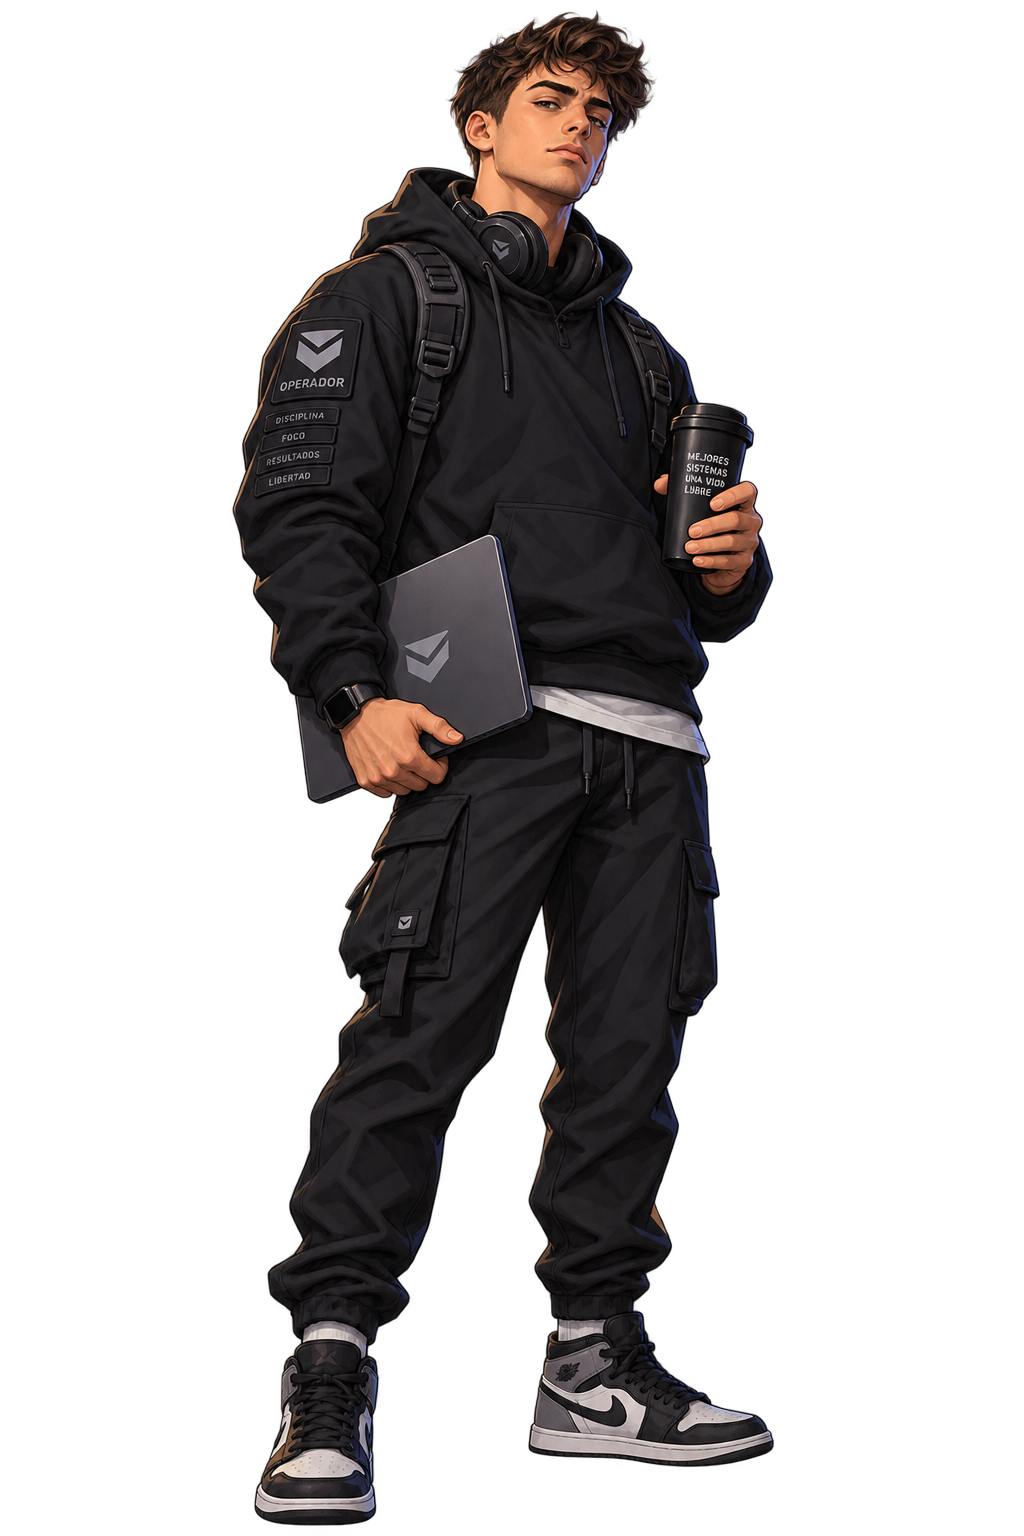
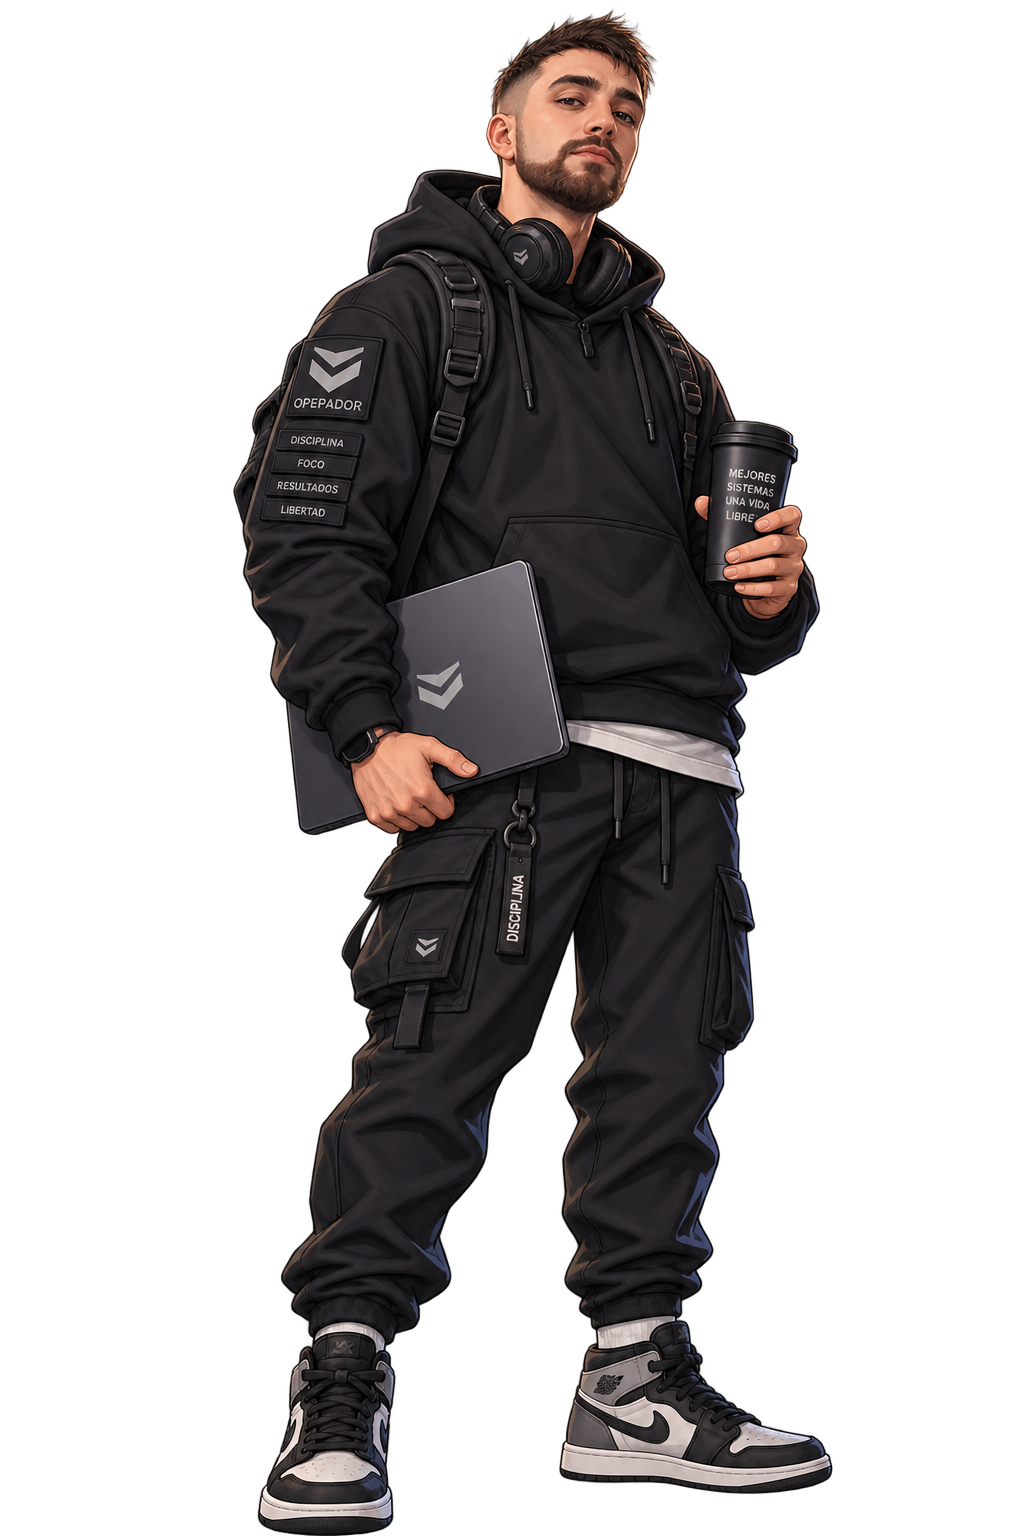
cambio de foto de personaje mas real

Changed region(s): [[0.2188, 0.0, 0.8125, 1.0]]

diff --git a/static/src/input.css b/static/src/input.css
@@ -500,7 +500,15 @@
 }
 
 @utility retrato {
-  background-color: #070b12;
+  /* La ilustracion viene recortada, asi que el fondo lo pone la tarjeta y se
+     adapta al tema. Antes iba fijo en oscuro porque la imagen traia su propio
+     fondo negro incrustado. */
+  background-color: var(--color-base);
+  background-image: radial-gradient(
+    70% 55% at 50% 22%,
+    color-mix(in oklab, var(--color-xp) 18%, transparent),
+    transparent 70%
+  );
 
   /* Movil: caja apaisada. Con object-cover la imagen se ajusta al ancho, asi
      que de una ilustracion 2:3 solo queda visible la mitad de arriba. El
